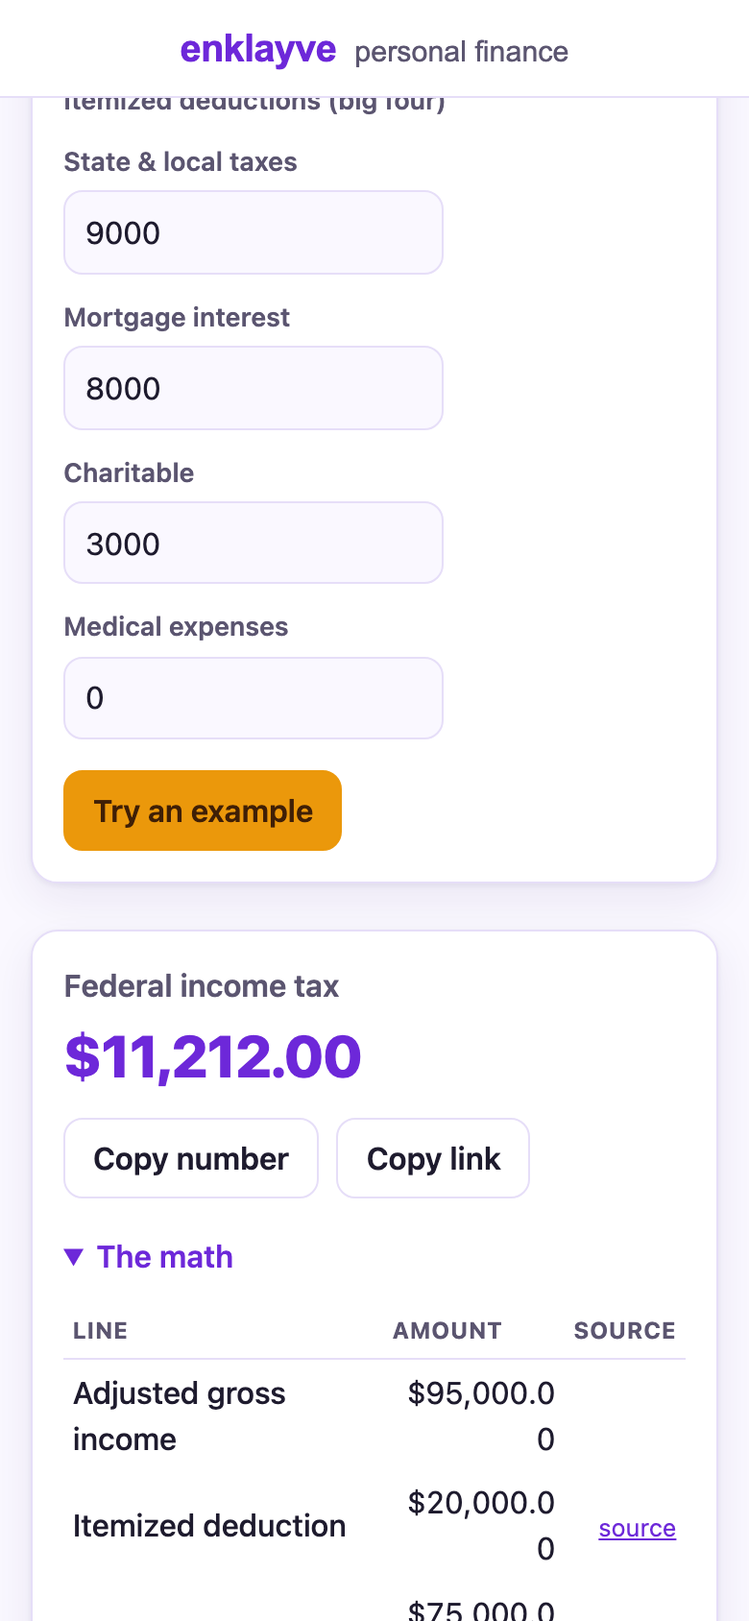
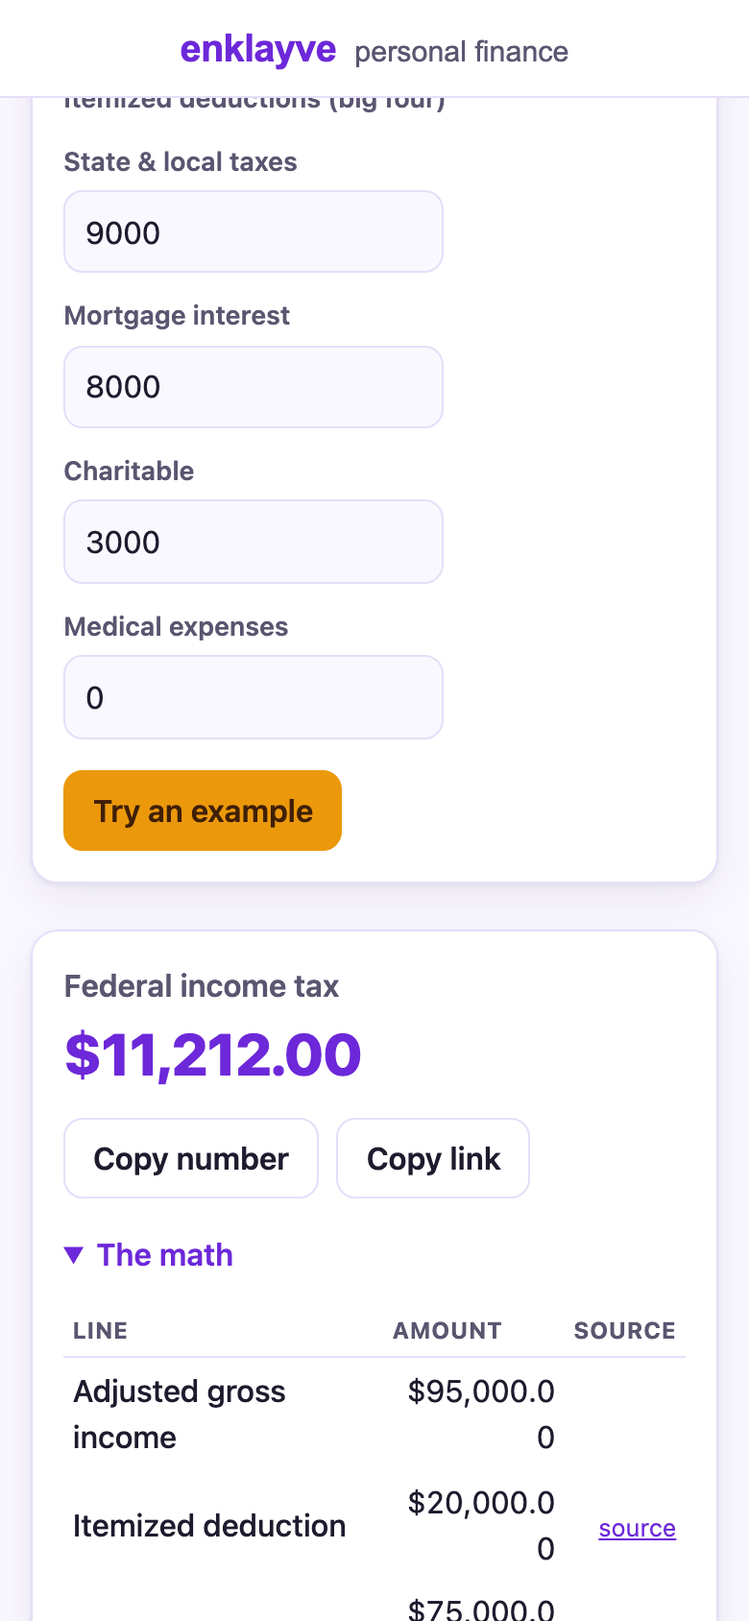
test(build): counts in comments drift, so stop writing them
Regenerating the README screenshots after today's work, `all-tools.png` came
back byte-identical despite a 69th calculator having landed. The capture is a
viewport shot and the new tile is below the fold, which is fine — but reading
the script to find that out surfaced its own doc comment: "the 59-calculator
catalog" of "10 hubs", against a real 69 in 12. Two other files still said "the
10 hubs".

Nothing broke. That is the whole point. The README's counts are read back out
of the prose and compared against the registry precisely because a claim that
cannot drift is worth more than one that reads well; comments have no such
check, so they decayed quietly and would have been believed by the next reader.
It is the SALT constant's lesson in a cheaper place.

The rule is not "keep them current" — it is "do not write one". Say *the* hubs,
*every* calculator, and put a real figure in README prose where a test reads it
back. Five comments fixed that way, and a test that fails on a new one in `src`
or `scripts`.

Exempt: facts about the country — "50 states + DC", "the 50-jurisdiction
problem", Maryland's 24 counties — which do not drift with this repo, and a
check that fires on them is one people learn to ignore. And `tests/`, which may
narrate the past: a case recording that the README once claimed 63 calculators
against a real 68 is evidence, and rewriting it would erase it.

The three screenshots that did change are regenerated: the home now carries its
[…]

diff --git a/tests/build/countsInComments.test.ts b/tests/build/countsInComments.test.ts
@@ -1,0 +1,75 @@
+import { describe, it, expect } from "vitest";
+import { readFileSync, readdirSync } from "node:fs";
+import { resolve } from "node:path";
+
+/**
+ * A count in a comment is a figure nobody is watching.
+ *
+ * The README's counts are read back out of the prose and compared against the
+ * registry, the manifest, and the build's own page list, because a claim that
+ * cannot drift is worth more than one that reads well. Comments have no such
+ * check, and on 2026-09-01 they had drifted exactly as far as you would expect:
+ * the screenshot script described "the 59-calculator catalog" of "10 hubs"
+ * against a real 69 in 12, and two other files still said "the 10 hubs".
+ *
+ * None of it broke anything. That is the point — an unwatched figure decays
+ * silently and is believed by the next reader, which is the same lesson the
+ * SALT constant taught this repo at a cost of $2,400 of somebody's tax.
+ *
+ * The rule is not "keep them current". It is "do not write one": say *the*
+ * hubs, *every* calculator. Where a real count belongs, it belongs in prose
+ * that `readmeCounts.test.ts` reads, or in a figure derived from the registry
+ * at run time.
+ *
+ * Scoped to shipped and build code. `tests/` may narrate the past — a case
+ * recording that the README once claimed 63 calculators against a real 68 is a
+ * historical fact, and rewriting it would erase the evidence.
+ */
+const ROOT = resolve(__dirname, "..", "..");
+const SCANNED = ["src", "scripts"];
+
+/** Nouns whose counts this repo has watched drift. */
+const COUNTED = /\b(\d{2,3})[- ](calculators?|tiles?|hubs?|shards?|datasets?|jurisdictions?)\b/g;
+
+/**
+ * Counts that are not claims about this repo's contents, in either the spaced
+ * or the hyphenated form. "50 states + DC" and "the 50-jurisdiction problem"
+ * are facts about the United States; "24 jurisdictions" is Maryland's county
+ * count, which is Maryland's to change and not ours. These do not drift with
+ * the repo, so watching them would only train people to ignore this check.
+ */
+const NOT_OURS = /\b(50|51|24)[- ](states|jurisdictions?)\b/;
+
+function sourceFiles(dir: string): string[] {
+  return readdirSync(dir, { withFileTypes: true }).flatMap((e) => {
+    const full = resolve(dir, e.name);
+    if (e.isDirectory()) return sourceFiles(full);
+    return e.name.endsWith(".ts") ? [full] : [];
+  });
+}
+
+describe("counts written into comments", () => {
+  it("does not claim a number of calculators, hubs, or shards in a comment", () => {
+    const offenders: string[] = [];
+    for (const root of SCANNED) {
+      for (const file of sourceFiles(resolve(ROOT, root))) {
+        const rel = file.slice(ROOT.length + 1);
+        readFileSync(file, "utf8")
+          .split("\n")
+          .forEach((line, i) => {
+            const comment = /^\s*(\/\/|\*|\/\*)/.test(line);
+            if (!comment || NOT_OURS.test(line)) return;
+            for (const m of line.matchAll(COUNTED)) {
+              offenders.push(`${rel}:${i + 1} — "${m[0]}"`);
+            }
+          });
+      }
+    }
+    expect(
+      offenders,
+      "a count in a comment is watched by nothing and decays silently. Say 'the hubs' or" +
+        " 'every calculator' instead, or put the figure in README prose where readmeCounts" +
+        " reads it back out and compares it to the registry",
+    ).toEqual([]);
+  });
+});

diff --git a/scripts/screenshots.ts b/scripts/screenshots.ts
@@ -11,7 +11,7 @@
  * It serves the production build over `vite preview` (the exact bytes that ship)
  * and drives a headless Chromium at a 2x device scale for crisp captures:
  *   - home.png        the home / anti-budget at a desktop width
- *   - all-tools.png   the crawlable All Tools index (the 59-calculator catalog)
+ *   - all-tools.png   the crawlable All Tools index (every calculator, by hub)
  *   - cited-result.png  a calculator's answer + the cited "show the math" table
  *                       (the differentiator: every statutory line links its source)
  *   - mobile.png      the same computed result at a 390px phone width, evidencing
@@ -95,7 +95,7 @@ async function main(): Promise<void> {
       await page.close();
     }
 
-    // 2) All Tools index (the catalog of 59 calculators in 10 hubs).
+    // 2) All Tools index (the catalog: every calculator, grouped by hub).
     {
       const page = await browser.newPage({
         viewport: { width: 1280, height: 880 },

diff --git a/src/ui/shell.ts b/src/ui/shell.ts
@@ -759,7 +759,7 @@ function renderAllTools(container: HTMLElement, navigate: NavigateFn): void {
   // One section per topic hub (the unit the app actually navigates to); each
   // heading opens the hub, and every calculator it hosts is listed beneath,
   // deep-linking into the hub already switched to that tool — so the browse
-  // path reaches all the calculators by name, not just the 10 hubs.
+  // path reaches all the calculators by name, not just the hubs.
   const sections = el("div", { class: "all-tools" });
   for (const hub of TILES) {
     const subs = SUB_TOOLS.filter((s) => s.hubId === hub.id).map((s) => s.tile);

diff --git a/tests/smoke.test.ts b/tests/smoke.test.ts
@@ -254,7 +254,7 @@ describe("All Tools index view", () => {
     expect(hubs).toContain("Benefits & Aid");
     expect(hubs).not.toContain("My Plan");
     // Individual calculators are now listed by name under their hub, so the
-    // browse path reaches every tool, not just the 10 hubs.
+    // browse path reaches every tool, not just the hubs.
     const tools = Array.from(root.querySelectorAll(".tile-link-title")).map((n) => n.textContent);
     expect(tools).toContain("Take-Home Pay");
     expect(tools).toContain("Earned Income Tax Credit");

diff --git a/tests/ui/promise.test.ts b/tests/ui/promise.test.ts
@@ -16,7 +16,7 @@ import { SituationStore } from "../../src/profile/situation";
  * router calls for every `#/<tile>` route) must always emit `.explainer-promise`
  * carrying all three required clauses.
  *
- * `TILES` is the complete set of routable tiles — the 10 hubs — since every
+ * `TILES` is the complete set of routable tiles — the hubs — since every
  * calculator is hosted inside a hub at `?tool=` (sub-tools are never top-level
  * routes). Iterating it means a newly added hub is covered automatically.
  */

diff --git a/docs/launch-checklist.md b/docs/launch-checklist.md
@@ -97,6 +97,7 @@ npm run check:boundaries:classify          # and, for each survivor, whether a t
 ## Content & correctness
 
 - [ ] **The federal-taxable-income states inherit the federal deductions, and each one was asked separately.** Verified on 2026-09-01 against each state's own law. Four states start their income tax at *federal taxable income*, which is AGI minus everything §63(b) subtracts — including all five of the One Big Beautiful Bill Act's new deductions. So a tipped worker in North Dakota gets §224 on the state return too, without North Dakota legislating anything, and an engine that starts every state at AGI charges them state tax on income the state does not tax. A Montana single filer earning $60,000 with $8,000 of tips was being shown **$376.00 of Montana tax they do not owe**, which is now a golden case — and so is one for every other conforming state, each computed by hand from the state's own schedule before the engine was asked. Idaho $1,647.72 and Iowa $1,364.20 on the same 35,900 of federal taxable income; North Dakota $376.84 at $95,000, which is $195.00 less than without the conformity; Colorado keeping the tips and adding the overtime back at its flat 4.40%. **Oregon's is the one worth reading**: it adds back the car loan interest *and* subtracts the filer's federal income tax, so taking the federal deduction shrinks Oregon's subtraction by the same $240 and Oregon's tax goes UP by $21 while the federal bill goes down by $240. That interaction is not something a reviewer would think to check, which is exactly why the worked example exists. **Colorado** (C.R.S. §39-22-104, and the Department of Revenue's Individual Income Tax Guide, "Colorado income tax is based generally on federal taxable income") adds back the overtime deduction for 2026 and later under HB25-1296 and says in the *next sentence* that "no addback is required ... for qualified tips" — so the shard block is five booleans, not one, and a state that carries it must answer for each deduction. **Idaho** (Idaho Code §63-3004) conforms *statically* to the IRC "as amended and in effect on the first day of January 2026", carving out only §85 and the research-expenditure treatment in §70302 of Pub. L. 119-21, so all five flow through — but the answer there changes by bill, not by calendar. **Montana** (MCA §15-30-2120(1)) adds back only §199A and the §164(a)(3) state income tax deduction. **North Dakota** (N.D.C.C. §57-38-30.3(2)) conforms *rolling* — "as computed under the Internal Revenue Code of 1986, as amended" — with nine adjustments that touch none of this. **New Mexico is the case that makes the block's absence mean something**: it uses the federal standard deduction figures and looks like conformity, but NMSA §7-2-2 starts it at adjusted gross income and subtracts "an amount equal to the standard deduction allowed ... by Section 63", which is §63(c) alone — nothing in §63(b) reaches it, and a test asserts it stays unchanged. **Iowa and Oregon were the two open questions and are now answered**, each from its own source. **Iowa** conforms to all five: its Department of Revenue writes that "the starting point for Iowa taxable income is federal taxable income", that Iowa "has adopted rolling conformity", and that it "will conform with the federal tax provisions related to no tax on tips, no tax on overtime, no tax on car loan interest, and the new enhanced deduction for senior citizens" — and the 2026 IA 1040 instructions describe the senior deduction as one that "does not directly affect the calculation of Iowa taxable income as the deduction is already included in your federal taxable income", which is the mechanism stated by the state itself. §170(p) is not in Iowa's list of four because it was not the newsworthy one; it comes through the same §63(b) door and nothing excepts it. **Oregon** conforms to four and adds back one: enrolled **SB 1507 (2026, ch. 142) §2** — "There shall be added to federal taxable income an amount equal to qualified passenger vehicle loan interest paid by the taxpayer and deducted on the taxpayer's federal income tax return in the tax year, as provided in section 163(h)(4)" — for tax years beginning on or after January 1, 2026. Its companions are the §1202 stock-gain and §168(k) depreciation addbacks, neither a wage deduction, and nothing in the bill touches §§224, 225, 151(d)(5)(C) or 170(p). So two of the six conforming states add back exactly one deduction each and it is a *different* one, which is the clearest possible argument for five booleans over a single conformity flag. An unanswered question written down is a decision; an unanswered question nobody recorded is the state tax being wrong.
+- [ ] **No count is written into a comment.** The README's counts are read back out of the prose and compared against the registry; comments have no such check, and on 2026-09-01 they had drifted exactly as far as you would expect — the screenshot script described "the 59-calculator catalog" of "10 hubs" against a real 69 in 12, and two other files still said "the 10 hubs". Nothing broke, which is the point: an unwatched figure decays quietly and is believed by the next reader, the same lesson the SALT constant taught at a cost of $2,400 of somebody's tax. [`countsInComments.test.ts`](../tests/build/countsInComments.test.ts) now fails on a comment claiming a number of calculators, hubs, tiles, shards, datasets or jurisdictions in `src/` or `scripts/`. The rule is not "keep them current" but **"do not write one"** — say *the* hubs, *every* calculator, and put a real figure in README prose where a test reads it back. Facts about the country ("50 states + DC", "the 50-jurisdiction problem", Maryland's 24 counties) are exempt, because they do not drift with this repo and a check that fires on them is one people learn to ignore. `tests/` is exempt too: a case recording that the README once claimed 63 calculators against a real 68 is evidence, and rewriting it would erase it.
 - [ ] Federal/state/FICA golden cases cross-checked against published worked examples for the seeded tax year. The corpus checks the engine against itself, which is exactly the class of error it cannot see: on 2026-09-01 the engine's `SALT_CAP = 10000` turned out to predate the One Big Beautiful Bill Act's rewrite of IRC §164(b)(6)-(7) ($40,400 for 2026, phasing down by 30% of MAGI over $505,000 to a $10,000 floor, halved for a separate return), and a golden case was pinning the wrong answer — $2,400 of federal tax a single filer with $20,000 of state and local tax does not owe. It is now a **field on the federal shard**, required there by the schema so a shard that cannot answer fails validation instead of being answered for, cited to the Code, and watched at 26 U.S.C. §164 so the 1%-a-year steps through 2029 reach a person. **The change-watch has since grown from 15 entries to 23**, all eight of them statutes rather than figures: §163 (the car loan deduction and its 2029 sunset), **§63 — the list itself**, because a new §63(b) paragraph changes the tax of six states that never legislated it, and one source per conforming state (Colorado's own guide, Iowa's conformity page, Idaho's §63-3004 date, MCA §15-30-2120, N.D.C.C. ch. 57-38, ORS ch. 316). Adding a second and third watch to one shard found a bug in the accept step: it keyed results **by shard**, so accepting a reviewed change to one statute stamped its fingerprint onto every other entry for that shard — marking a statute nobody had read as reviewed, and leaving the loser reporting "changed" against text that never moved. Keyed by shard *and* url now, with a test. The two chapter-wide watches (ND and OR publish no narrower page) will fire on unrelated amendments; the reason is written in each entry rather than discovered later. The lesson generalises: a constant is invisible to every gate here — the provenance audit, the adapters, the staleness banner, the source watch all see datasets. That is now a test rather than a lesson: [`numericConstants.test.ts`](../tests/build/numericConstants.test.ts) lists every named numeric constant in `src/engine`, `src/readout`, `src/profile`, `src/tiles` and `src/ui`, and fails until each carries a verdict — a **bound** the code owns (a loop ceiling, a probe size, a unit conversion), a **figure** somebody legislates, or an **assumption** this site chose. Forty-eight today. The three figures are the 7.5% medical-expense floor (IRC §213(a), permanent since the Consolidated Appropriations Act 2021), the $150,000 AGI above which the estimated-tax safe harbor rises to 110% (§6654(d)(1)(C)(i), unmoved since 1993), and the five-year Roth conversion seasoning period (§408A(d)(3)(F)) — each a period or an unindexed threshold rather than an annual amount, left in code deliberately with the decision written where the next reader can argue with it. Naming **assumption** as a third verdict is what stops a modelling choice — a 4% savings rate, the 28/36 lending convention — being filed as a bound, which is where they hide. The sweep started at the engine and was widened the moment it was pointed one directory over: `src/readout` held `FALLBACK_LIMIT = 24500`. The last statutory number in the codebase, §1211(b)'s $3,000 capital-loss offset, was an inline `fields.mfs ? 1500 : 3000` in the middle of a handler — the one shape a named-constant sweep cannot find — and is now named, verdicted, and bound to the sentence that quotes it. Every statutory figure this site holds is either a shard field or a constant with a written reason. Named constants only — an inline literal is a harder sweep — but that is the shape the three hardening passes kept finding.
 - [ ] Every tile has a worked example, a "How this works" explainer, "Learn more" links, and the on-device / US-only / not-advice promise. **The dollar figures in those explainers are read back out of the shards** ([`proseFigures.test.ts`](../tests/ui/proseFigures.test.ts)): 29 bindings across nine tiles, plus a completeness half that fails on any dollar figure in those files that is neither bound nor written down as not-a-figure. Prose goes stale the way a constant does, and worse — the number the reader is told and the number the calculator uses end up on the same screen disagreeing, and nothing compares a sentence to a shard. Two were live on 2026-09-01, both from the One Big Beautiful Bill Act: the federal-tax explainer said SALT was "capped at $10,000" after the engine was fixed to $40,400, and the **Child Tax Credit explainer said "$2,000 per qualifying child" while the shard had carried $2,200 since the Act** — so that tile computed $2,200 under a paragraph saying $2,000. The gift-tax figures matter most here, since all three index annually.
 - [ ] **All five of the One Big Beautiful Bill Act's new deductions are modeled, each on the tile that has the input it needs.** Verified against the Code on 2026-09-01: the $6,000-per-person deduction at 65 (IRC §151(d)(5)(C), taxable years before 2029), up to $25,000 of qualified tips (§224), up to $12,500 of qualified overtime — $25,000 on a joint return — (§225), each reduced by $100 per $1,000 of MAGI over $150,000/$300,000, and $1,000 of charitable giving without itemizing, $2,000 jointly (§170(p)). **§170(p) is modeled as of 2026-09-01** — it is the one that needs no new input, because both tiles have asked for charitable giving since launch as part of the itemized "big four". §63(b)(4) subtracts it from AGI *alongside* the standard deduction rather than as part of it, so it is reported on its own line and kept out of the deduction figure Utah's taxpayer credit is a share of; and the auto standard-vs-itemized choice now compares the itemized total against standard **plus** §170(p), since itemizing forfeits it. The engine's `charitable` input does not separate cash from property or a public charity from a donor-advised fund, and §170(p) counts only the first of each, so the tile says the real figure may be smaller. **§151(d)(5)(C) followed the same day**, once the input question was asked properly: the statute needs a *count* of people aged 65 on the return, not an age, so both tiles ask "how many of you are 65 or older" — a three-option select, which is a smaller thing to ask a reader for than a birth date and is exactly what the rule consumes. $6,000 each, reduced by 6% of MAGI over $75,000 or $150,000 joint, so it runs out at $175,000 and $250,000. Three readings that a reasonable implementation gets wrong each have a case: married filing separately gets **zero, not half** (§151(d)(5)(C)(v)); the phase-out reduces the **per-person** amount, so a couple lose twelve cents per dollar rather than six; and a qualifying surviving spouse files at joint rates without filing a joint return, so they get one individual at the single threshold. Unlike §170(p) it applies **whether or not the filer itemizes** (§63(a) for an itemizer, §63(b)(2) for one who is not), which is its own case too. **§224 and §225 followed**, on Take-Home, which is the tile a server or an hourly worker actually opens and the one where wage composition belongs: two fields asking how much of the pay was qualified tips or an overtime premium. One engine function serves both, because the statutes are one shape — but the **phase-down is a step where the Act's other two are rates**, and it is not the child credit's step either: "$100 for each $1,000 by which ... exceeds" counts *completed* thousands, because neither section says "or fraction thereof" and §24(b)(2) does. A filer $1,999 over the threshold loses $100, not $200. Three phase-outs, three shapes, one Act. §224 has **no joint figure at all** where §225 doubles to $25,000, which is the other way these two look alike and are not. Both are income-tax deductions only — FICA is still owed on every tipped and overtime dollar, which the explainer says and a test asserts — and what qualifies is narrower than the words suggest (cash tips in a Treasury-listed occupation; the premium half of FLSA-required overtime), so the tile calls the figure a ceiling. Neither tile claims a deduction it has no input for: Take-Home has no giving field, the Federal Income Tax tile has no wage breakdown, and each says which tool applies the other. They were found while chasing the SALT constant and were nowhere: not in the engine, not on the deferred list, not on the page. An omission written down is a decision; an omission nobody recorded is a wrong number with nothing attached to it. Both tiles' explainers now name all four and say plainly that a reader they apply to owes less than the figure shown. **Four more tiles run the same engine and ask for none of it** — the W-4 check, the paycheck optimizer, quarterly taxes, and the marginal explorer — so each was quietly computing a higher federal tax than a tipped worker, an hourly worker, anyone 65, anyone giving without itemizing, or anyone paying a car loan actually owes. The fix is not twenty fields across four tools that are about withholding, deferral, set-aside and rates rather than about composing a return; it is saying so, in a shared line that names the two tools that do ask. That line deliberately carries **no dollar figures**, because an amount repeated in six files is five more places for it to drift. And the rule is now a test rather than a habit: [`federalTaxDisclosure.test.ts`](../tests/ui/federalTaxDisclosure.test.ts) finds every tile that calls `evaluateTaxes` and fails unless it either applies the deductions or says it does not — so the seventh tile to compute federal tax has to answer the question. **And the test shipped with a scope hole in the worst possible place**: it scanned `src/tiles`, and the home anti-budget is not a tile. It runs the same `evaluateTaxes` from the shell, on an income, a filing status and a state, and it is the first thing most readers see — showing a tax slice larger than a tipped or hourly worker owes, and saying nothing. It says so now, in a line under the figure — and rather than adding one directory to the scan, the test now walks **all of `src`** and exempts only the engine, which renders nothing to anybody. That immediately found a third caller: the **Readout Report**, a document a household saves and reads again months later, showing an effective and a marginal rate computed from an income and a filing status alone. A document that will outlive the session has to carry its own caveat, since there is no tile beside it to explain — so it now names the five deductions in its tax section. A scope that stops at a directory boundary is a coincidence, not a scope. **§163(h)(4) — car loan interest — was the fifth, and it was missing from the list of four**: the Act's §70203 takes qualified passenger vehicle loan interest out of the personal interest §163(h)(1) disallows, and §63(b)(7) reaches it for a filer who does not itemize, so up to **$10,000** a year comes off either way. It lives on the Federal Income Tax tile, beside mortgage interest but outside the itemized group, because the choice does not affect it. Two readings that "it is the same shape as tips and overtime" gets wrong, each with a case: (C)(ii) says "$200 for each $1,000 **(or portion thereof)**", so a filer one dollar into a thousand loses the whole $200 where a tipped worker in the same position loses nothing — a **fourth phase-out shape** in one Act — and the section carries **no joint-return restriction**, so a married individual filing separately is eligible at the $100,000 threshold where §224(f) and §225(e) would give them zero. That step is a **cliff, not a slope**, and the engine's own marginal probe says so: a single filer at exactly $100,000 with a car loan sees **73.65%** on the next hundred dollars — 29.65% of ordinary tax and FICA, plus 44% from $200 of deduction lost on $100 of income — and 29.65% again a hundred dollars later. The figure is correct and startling, so it is pinned by a test rather than left to surprise someone, and the explainer warns the reader before the tile does. Both are now **fields on the shard** (`partialStepCounts`, `jointReturnOnly`) rather than a convention the engine applies to every rule of that shape, so the next same-shaped section has to state its answer. The Auto Loan tile, which computes the interest figure the deduction is measured on, names the rule and **hands the figure over** — a "Deduct this interest" button that opens Federal Income Tax with the amount already in the field. It carries the **first twelve months'** interest and not the total cost of credit, because §163(h)(4) deducts interest paid *in the taxable year*: on the tile's own example those are $2,300 and $8,100, so the obvious copy-and-paste would claim a deduction more than three times too large. The first year is also the largest, which makes it the year that says whether the $10,000 ceiling is anywhere near. A loan that did not start in January pays less inside one calendar year, and the explainer says so. **The e2e caught that the button did not work at all**, which the unit test could not: it asserted the callback's arguments, and the arguments were right. A calculator is not a route — `federal-income-tax` lives at `#/paycheck-taxes?tool=federal-income-tax` — and the hub remapped `navigate(<id>)` only for **its own** sub-tools, so a cross-hub target fell through to a tile id the router cannot resolve and dropped the reader on the home page. The same remap also **threw the caller's params away**, so a link carrying a value would have arrived empty even inside one hub. Both are fixed at the hub, using a new `hubIdForTool` on the registry, so every tile's `ctx.navigate` is now reliable rather than reliable-if-the-target-is-a-sibling — and its three quoted figures joined [`proseFigures.test.ts`](../tests/ui/proseFigures.test.ts) rather than being trusted, because a second file quoting a shard is a second place for it to go stale. **The Readout closes the loop**: tax year 2026 added W-2 **box 12 codes TP and TT** (IRS *General Instructions for Forms W-2 and W-3*, Rev. 1-2026) precisely so the figures §§224 and 225 deduct appear on the form, and both now extract into My Situation and pre-fill Take-Home — a tipped worker who drops in their W-2 does not retype two numbers off the paper they just handed us. **TT is read as the deduction; TP is read as a ceiling**, because the box holds "total amount of cash tips reported to the employer" while §224 reaches only Treasury-listed occupations, which is what the new **box 14b** occupation code (`000` for a nonqualifying one) records. Both anchors demand the code as a word after a box-12 subscript: "TP" and "TT" sit inside ordinary English words, and reading an amount after a stray one is the inference this module exists not to make. A W-2 from an earlier year carries neither code and the extractor drops what it cannot read, so a prior-year document never arrives claiming the reader had no tips. **Box 14b is extracted and checked**: a `000` there is the employer stating that some of the tips were received in a nonqualifying occupation, so the answer asks "do all of these tips qualify?" against the IRS instruction that requires the code — a `rule` check with a citation, suppressed on OCR because three digits are what a scan gets wrong and the claim is about someone's occupation. The Treasury occupation list is deliberately not bundled: it changes by notice, and a stale copy would let this site deny a deduction someone is owed.

diff --git a/README.md b/README.md
@@ -26,7 +26,7 @@ A verifiable snapshot — every figure here is reproducible from the repo, not m
 | Deterministic calculators | **69** in **12 topic hubs**, plus the on-home anti-budget | [`src/tiles/registry.ts`](src/tiles/registry.ts) |
 | Tax jurisdictions | **51 — every one of the 50 states + DC** (41 income-tax states + DC + 9 no-income-tax) | [`data/state-*-income-tax-*.json`](data) |
 | Cited dataset shards | **81**, each with a sibling `.sha256` + manifest entry; every `sourceDocument` ≤160 chars (audit-enforced) | [`data/manifest.json`](data/manifest.json) |
-| Tests | unit/golden across **120** files, **+42** Playwright e2e | `npm run test` / `npm run test:e2e` |
+| Tests | unit/golden across **121** files, **+42** Playwright e2e | `npm run test` / `npm run test:e2e` |
 | Source audits | **all 51 jurisdictions + the federal and benefits shards** read against the agency's own document; 8 wrong figures found and fixed | [`docs/data-sources.md`](docs/data-sources.md#source-audits) |
 | Runtime network requests | **0** — `connect-src 'none'` blocks them at the browser | [`worker/index.ts`](worker/index.ts) |
 | Auto-persisted user data | **0** — only the locale/theme preference touches `localStorage`, asserted end-to-end across a full session | `npm run audit` / `npm run test:e2e` |
@@ -612,7 +612,7 @@ Every output is a pure function of the inputs and the bundled dataset version. N
 
 *The same computed result on a 390px phone — the guarantee made visible: the form controls shrink to their track and the breakdown's amounts **wrap** instead of forcing a sideways scroll, so the page scrolls vertically only. Regenerate every shot from the live build with `npm run screenshots`.*
 
-**The unit and golden suite across 120 files** (plus 42 Playwright e2e tests) passes today, alongside `format:check`, `lint`, `typecheck`, `build`, the audit, and `wrangler deploy --dry-run`.
+**The unit and golden suite across 121 files** (plus 42 Playwright e2e tests) passes today, alongside `format:check`, `lint`, `typecheck`, `build`, the audit, and `wrangler deploy --dry-run`.
 
 ---
 
